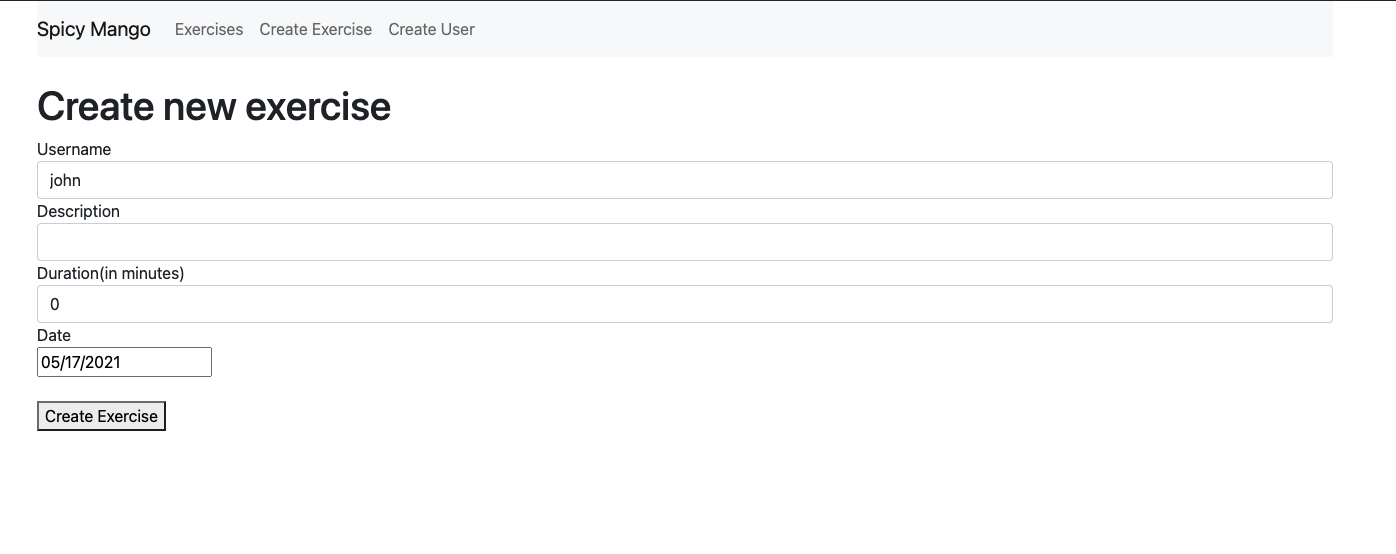
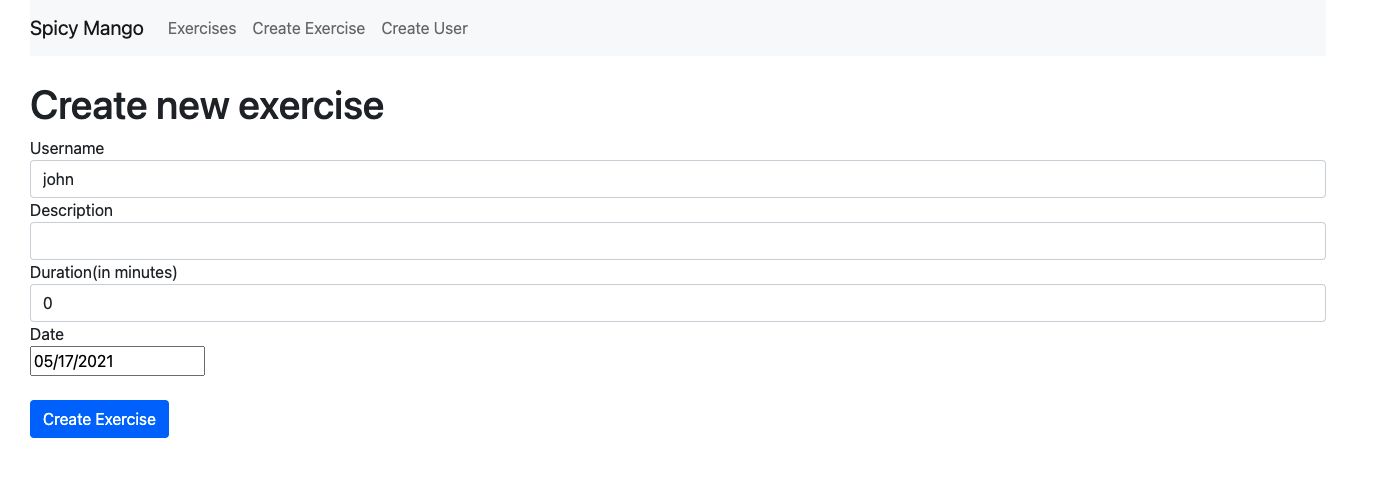
Updated the button

Changed region(s): [[0.0, 0.1543, 0.968, 0.9259], [0.0, 0.0309, 0.3435, 0.0926]]

diff --git a/src/components/createExercise.component.js b/src/components/createExercise.component.js
@@ -137,7 +137,9 @@ export default class CreateExercise extends Component {
           </div>
           <br></br>
           <div className="form-group">
-            <button value="Create exercise">Create Exercise</button>
+            <button value="Create exercise" className="btn btn-primary">
+              Create Exercise
+            </button>
           </div>
         </form>
       </div>
